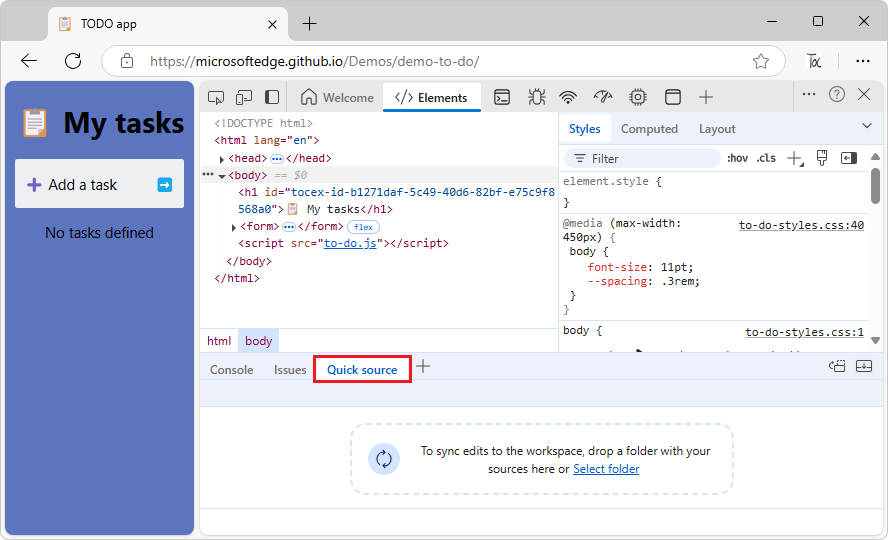
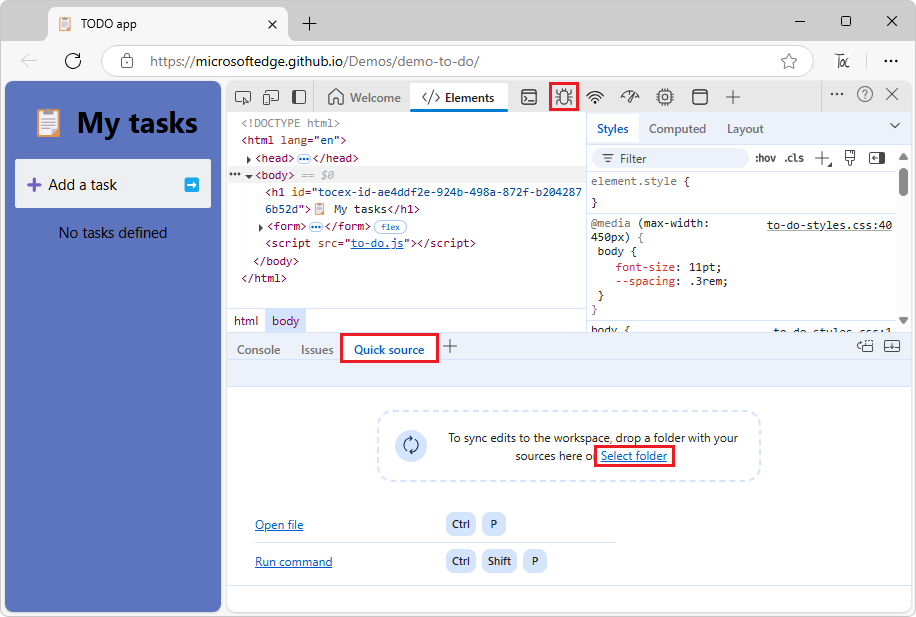
Filesystem tab > Workspace tab

diff --git a/microsoft-edge/devtools-guide-chromium/workspaces/index.md b/microsoft-edge/devtools-guide-chromium/workspaces/index.md
@@ -1,5 +1,5 @@
 ---
-title: Edit files with Workspaces (Filesystem tab)
+title: Edit files with Workspaces
 description: How to save webpage file changes made in DevTools to disk.
 author: MSEdgeTeam
 ms.author: msedgedevrel
@@ -21,9 +21,9 @@ ms.date: 09/13/2023
    WITHOUT WARRANTIES OR CONDITIONS OF ANY KIND, either express or implied.
    See the License for the specific language governing permissions and
    limitations under the License.  -->
-# Edit files with Workspaces (Filesystem tab)
+# Edit files with Workspaces
 
-Use the **Filesystem** tab in the **Sources** tool to define a workspace, to save DevTools changes in your source code files rather than only in a transient copy of the files that are returned by the web server.
+Use the **Workspace** tab in the **Sources** tool to define a workspace, to save DevTools changes in your source code files rather than only in a transient copy of the files that are returned by the web server.
 
 This tutorial provides hands-on practice in setting up and using a workspace in DevTools. After you add files to a workspace, changes that you make in your source code by using DevTools are saved on your local computer. These changes are preserved across page refreshes.
 
@@ -59,7 +59,7 @@ The tutorial steps below walk you through this environment setup.
 
 If you're using a modern framework, it probably transforms your source code from a format that's easy to maintain into a format that's optimized to run as quickly as possible.  A workspace is usually able to map the optimized code back to the original source code, by using [source maps](https://blog.teamtreehouse.com/introduction-source-maps) for JavaScript and CSS.  However, there's a lot of variation in how each framework uses source maps.
 
-DevTools doesn't support every framework variation; for example, the Workspaces feature (**Filesystem** tab) doesn't work with the Create React App framework.
+DevTools doesn't support every framework variation; for example, the Workspaces feature (**Workspace** tab) doesn't work with the Create React App framework.
 
 If you run into issues while using workspaces with your framework of choice, or you identify framework-specific steps that are needed, [start a thread in the Chrome DevTools mailing list](https://groups.google.com/forum/#!forum/google-chrome-developer-tools) or [ask a question on Stack Overflow](https://stackoverflow.com/questions/ask?tags=google-chrome-devtools) to exchange information with the rest of the DevTools community.
                                                                      
@@ -134,7 +134,7 @@ Node.js option:
 
 1. Click the **Sources** (![Sources tool icon](./index-images/sources-tool-icon.png)) tab.
 
-1. In the **Navigator** pane (on the left), click the **Filesystem** tab (which is grouped with the **Page** tab):
+1. In the **Navigator** pane (on the left), click the **Workspace** tab (which is grouped with the **Page** tab):
 
    ![The Filesystem tab](./index-images/workspaces-workspaces-demo-sources-filesystem.png)
 
@@ -146,7 +146,7 @@ Node.js option:
 
 1. Click the **Allow** button, to give DevTools permission to read and write to the directory.
 
-   In the **Filesystem** tab are page icons that have a green dot, for `index.html`, `script.js`, and `styles.css`. <!--(The two-way arrow colors are mapped to `.html`, `.js`, and `.css` file types.)-->  The green dot indicates that DevTools has established a mapping between a network resource of the page that's received from the web server, and the local source file in your `app` directory:
+   In the **Workspace** tab are page icons that have a green dot, for `index.html`, `script.js`, and `styles.css`. <!--(The two-way arrow colors are mapped to `.html`, `.js`, and `.css` file types.)-->  The green dot indicates that DevTools has established a mapping between a network resource of the page that's received from the web server, and the local source file in your `app` directory:
 
    ![The Filesystem tab has a green dot indicating a mapping between a resource received from the server and a local source file](./index-images/workspaces-workspaces-demo-sources-filesystem-folder.png)
 
@@ -156,7 +156,7 @@ Node.js option:
 
 To make a change in the CSS file and save it to disk:
 
-1. In the **Sources** tool, in the **Filesystem** tab (grouped with the **Page** tab), select `styles.css` to open it in the editor pane.  The `color` property of the `h1` element is set to `fuchsia`:
+1. In the **Sources** tool, in the **Workspace** tab (grouped with the **Page** tab), select `styles.css` to open it in the editor pane.  The `color` property of the `h1` element is set to `fuchsia`:
 
    ![View styles.css in a text editor](./index-images/workspaces-workspaces-demo-sources-filesystem-css.png)
 
@@ -223,7 +223,7 @@ In short, the **DOM Tree** `!==` HTML.
 <!-- ------------------------------ -->
 #### Changing HTML from the Sources tool saves changes
 
-If you want to save a change to the webpage HTML, edit the HTML in the **Sources** tool with a workspace defined (in the **Filesystem** tab), rather than changing the HTML in the DOM tree in the **Elements** tool.
+If you want to save a change to the webpage HTML, edit the HTML in the **Sources** tool with a workspace defined (in the **Workspace** tab), rather than changing the HTML in the DOM tree in the **Elements** tool.
 
 1. Continuing from above, click the **Sources** (![Sources tool icon.](./index-images/sources-tool-icon.png)) tab.
 
@@ -239,14 +239,14 @@ If you want to save a change to the webpage HTML, edit the HTML in the **Sources
 
 1. Open the copy of `index.html` that's in your `app` directory in a text editor, such as Visual Studio Code.
 
-   The `<h1>` element contains the new text, because you made the change using the **Sources** tool's editor to edit `index.html` and then saved the change, and that file was mapped in a workspace (the **Filesystem** tab), indicated by a green dot on the file's icon.
+   The `<h1>` element contains the new text, because you made the change using the **Sources** tool's editor to edit `index.html` and then saved the change, and that file was mapped in a workspace (the **Workspace** tab), indicated by a green dot on the file's icon.
 
 
 <!-- ====================================================================== -->
 ## Edit JavaScript and save changes to the source file
 
 The main place to use the code editor of DevTools is the **Sources** tool.  But sometimes you need to access other tools, such as the **Elements** tool or the **Console**, while editing files.  The **Quick source** tool gives you just the editor from the **Sources** tool, while any tool is open.
-<!-- todo: avoid Quick source tool and just use Sources tool for this section -->
+<!-- todo: maybe avoid Quick source tool and just use Sources tool for this section -->
 
 To open the DevTools code editor alongside other tools:
 
@@ -279,6 +279,10 @@ To open the DevTools code editor alongside other tools:
 1. Refresh the page.  If needed, click and hold the **Refresh** button and then select **Hard Refresh**.  The **Edit files with Workspaces** hyperlink on the page is now italicized:
 
    ![The link on the page is now italicized](./index-images/workspaces-workspaces-demo-elements-styles-quick-source-script.png)
+
+
+See also:
+* [Display or edit source files using the Quick source tool](../quick-source/quick-source-tool.md)
 
 
 <!-- ====================================================================== -->

diff --git a/microsoft-edge/devtools-guide-chromium/quick-source/quick-source-tool.md b/microsoft-edge/devtools-guide-chromium/quick-source/quick-source-tool.md
@@ -35,25 +35,34 @@ To open a file in the **Quick source** tool:
 
    The **Quick source** tool opens in **Quick View**:
 
-   ![The Quick source tool](./quick-source-tool-images/quick-source-select-folder.png)
+   ![The Quick source tool](./quick-source-tool-images/quick-source-open-file.png)
 
-   No files are displayed, because no files are selected in the **Sources** tool.
+1. Drag the separator to make the **Quick View** pane tall enough to display the **Open file** link.
 
-1. In the **Activity Bar**, select the **Sources** (![The Sources tool icon](./quick-source-tool-images/sources-icon.png)) tool.
+   Next, you can either:
+   * Open a file in the **Sources** (![The Sources tool icon](./quick-source-tool-images/sources-icon.png)) tool, per the steps below.
+   * Open a file via the **Command Menu** by clicking the **Open file** link in the **Quick source** tool.
+
+1. In the **Activity Bar** at the top of DevTools, select the **Sources** (![The Sources tool icon](./quick-source-tool-images/sources-icon.png)) tool.
 
    The **Quick View** pane is minimized at the bottom of DevTools.
 
-1. In the **Page** tab (or the **Workspace** tab), select one or more files, such as `to-do.js`.
+1. In the **Sources** tool, in the **Page** tab, select one or more files, such as `to-do.js`.
 
    The tabs for the selected files are opened in the **Sources** tool:
 
    ![The Sources tool > Page tab with a file selected](./quick-source-tool-images/sources-tool-page-tab-file-selected.png)
 
-1. In the **Activity Bar**, select a tool other than **Sources**, such as **Elements**.
+1. In the **Activity Bar** at the top of DevTools, select a tool other than **Sources**, such as **Elements**.
 
    The **Quick source** tool expands in **Quick View** at the bottom of DevTools, and has a tab for each open file:
 
-   ![A file displayed in the Quick source tool.](./quick-source-tool-images/file-displayed-in-quick-source.png)
+   ![A file displayed in the Quick source tool.](./quick-source-tool-images/file-displayed-in-quick-source.png)<!-- 1st use -->
+
+
+   Or, to open a file, you can click the **Open file** link in the empty **Quick source** tool:
+
+   ![The Open file Command Menu](./quick-source-tool-images/open-file-command-menu.png)
 
 
 <!-- ====================================================================== -->
@@ -75,8 +84,6 @@ To open a file in the **Quick source** tool and sync edits to the workspace:
 
    ![The Quick source tool](./quick-source-tool-images/quick-source-select-folder.png)
 
-   No files are displayed, because no files are selected in the **Sources** (bug icon) tool.
-
 1. In the **Quick source** tool, click the **Select folder** link.  (Or, drag a folder onto the **Quick source** panel.)
 
    The **Select Folder** dialog opens.
@@ -89,23 +96,24 @@ To open a file in the **Quick source** tool and sync edits to the workspace:
 
    The **Sources** tool is opened, with no file selected, and continues to display a **Select folder** link.
 
-1. In the **Sources** tool, select the **Workspace** tab (or the **Page** tab).
-
-1. Expand the tree, and then click one or more files, such as `to-do.js`.
+1. In the **Sources** tool, in the **Workspace** tab, expand the tree, and then click one or more files, such as `to-do.js`.
 
    The file opens in the **Sources** tool:
 
    ![The Sources tool with a file selected](./quick-source-tool-images/sources-tool-with-file-selected.png)
 
-1. In the **Activity Bar** at top of DevTools, select a tool other than the **Sources** tool, such as the **Elements** tool.
+1. In the **Activity Bar** at the top of DevTools, select a tool other than the **Sources** tool, such as the **Elements** tool.
 
    The **Quick source** tool expands in **Quick View** at the bottom of DevTools, and has a tab for each open file:
 
-   ![A file displayed in the Quick source tool](./quick-source-tool-images/file-displayed-in-quick-source.png)
+   ![A file displayed in the Quick source tool](./quick-source-tool-images/file-displayed-in-quick-source.png)<!-- 2nd use -->
+
+See also:
+* [Edit files with Workspaces](../workspaces/index.md)
+   * [Step 4: Save a JavaScript change to disk](../workspaces/index.md#edit-javascript-and-save-changes-to-the-source-file) in _Edit files with Workspaces_
 
 
 <!-- ====================================================================== -->
 ## See also:
 
 * [Displaying source files when using a different tool](../sources/index.md#displaying-source-files-when-using-a-different-tool) in _Sources tool overview_
-* [Step 4: Save a JavaScript change to disk](../workspaces/index.md#edit-javascript-and-save-changes-to-the-source-file) in _Edit files with Workspaces (Filesystem tab)_

diff --git a/microsoft-edge/devtools-guide-chromium/sample-code/sample-code.md b/microsoft-edge/devtools-guide-chromium/sample-code/sample-code.md
@@ -60,7 +60,7 @@ last sync'd April 16, 2024
 | Inspect Network Activity | Used for [Inspect network activity](../network/index.md). | [/network-tutorial/](https://github.com/MicrosoftEdge/Demos/tree/main/network-tutorial) | [Inspect Network Activity Demo](https://microsoftedge.github.io/Demos/network-tutorial/) |
 | Photo gallery | Used for [The truth about CSS selector performance](https://blogs.windows.com/msedgedev/2023/01/17/the-truth-about-css-selector-performance/). | [/photo-gallery/](https://github.com/MicrosoftEdge/Demos/tree/main/photo-gallery) | [Photo Gallery](https://microsoftedge.github.io/Demos/photo-gallery/) |
 | Slow Calendar | Simple calendar demo app to test various DevTools features such as the **Performance** tool and source map support. | [/slow-calendar/](https://github.com/MicrosoftEdge/Demos/tree/main/slow-calendar) | [Slow Calendar](https://microsoftedge.github.io/Demos/slow-calendar/public) |
-| Workspaces | Use for [Edit files with Workspaces (Filesystem tab)](../workspaces/index.md), in the **Sources** tool. | [/workspaces/](https://github.com/MicrosoftEdge/Demos/tree/main/workspaces) | [DevTools Workspaces Demo](https://microsoftedge.github.io/Demos/workspaces/) |
+| Workspaces | Use for [Edit files with Workspaces](../workspaces/index.md), in the **Sources** tool. | [/workspaces/](https://github.com/MicrosoftEdge/Demos/tree/main/workspaces) | [DevTools Workspaces Demo](https://microsoftedge.github.io/Demos/workspaces/) |
 
 A few of these samples are shown below.
 
@@ -235,7 +235,7 @@ After downloading or cloning the Demos repo:
 
 1. In DevTools, on the main toolbar, select the **Sources** tab.  If that tab isn't visible, click the **More tabs** (![More tabs icon](./sample-code-images/more-tabs-icon-light-theme.png)) button.
 
-1. In the **Sources** tab, on the left, select the **Filesystem** tab, which is grouped with the **Page** tab.  If the **Filesystem** tab isn't displayed, click the **More tabs** (![More tabs button](./sample-code-images/more-tabs-icon-light-theme.png)) button.
+1. In the **Sources** tab, on the left, select the **Workspace** tab, which is grouped with the **Page** tab.  If the **Workspace** tab isn't displayed, click the **More tabs** (![More tabs button](./sample-code-images/more-tabs-icon-light-theme.png)) button.
 
 1. Click **+ Add folder to workspace**.  A folder selection dialog opens.
 
@@ -251,7 +251,7 @@ To edit the files, see the editing steps in the next section.
 
 
 See also:
-* [Edit files with Workspaces (Filesystem tab)](../workspaces/index.md) - to open a local folder in the **Sources** tool of DevTools in the browser.
+* [Edit files with Workspaces](../workspaces/index.md) - to open a local folder in the **Sources** tool of DevTools in the browser.
 * [Using the Filesystem tab to define a local Workspace](../sources/index.md#using-the-filesystem-tab-to-define-a-local-workspace) in _Sources tool overview_.
 
 
@@ -355,7 +355,7 @@ These URLs aren't case-sensitive.
 ## See also
 
 Opening and editing files:
-* [Edit files with Workspaces (Filesystem tab)](../workspaces/index.md) - to open a local folder in the **Sources** tool of DevTools in the browser.
+* [Edit files with Workspaces](../workspaces/index.md) - to open a local folder in the **Sources** tool of DevTools in the browser.
 * [Using the Filesystem tab to define a local Workspace](../sources/index.md#using-the-filesystem-tab-to-define-a-local-workspace) in _Sources tool overview_.
 * [Approaches compared](../../visual-studio-code/microsoft-edge-devtools-extension.md#approaches-compared) in _Microsoft Edge DevTools extension for Visual Studio Code_.  Summarizes and compares several options for editing webpage files.
 * [Microsoft Edge IDE integration](../../visual-studio-code/ide-integration.md) - Webpage app development using Visual Studio Code or Visual Studio, including Microsoft Edge DevTools.

diff --git a/microsoft-edge/devtools-guide-chromium/sources/index.md b/microsoft-edge/devtools-guide-chromium/sources/index.md
@@ -139,7 +139,7 @@ To change how resources are grouped:
 <!-- ------------------------------ -->
 #### Using the Filesystem tab to define a local Workspace
 
-Use the **Filesystem** tab of the **Navigator** pane to add files to a Workspace, so that changes you make in DevTools get saved to your local file system.
+Use the **Workspace** tab of the **Navigator** pane to add files to a Workspace, so that changes you make in DevTools get saved to your local file system.
 
 <!-- Green dots do not appear anymore. -->
 <!-- A file that's in a Workspace is indicated by a green dot next to the file name, throughout DevTools. -->
@@ -153,7 +153,7 @@ In contrast, when you use a Workspace, changes that you make to your front-end c
 Workspaces work well when the JavaScript code that's returned by the server is the same as your local JavaScript source code.  Workspaces don't work as well when your workflow involves transformations on your source code, such as minification or [TypeScript](https://www.typescriptlang.org) compilation.
 
 See also:
-* [Edit files with Workspaces (Filesystem tab)](../workspaces/index.md)
+* [Edit files with Workspaces](../workspaces/index.md)
 * [Open a demo folder in the Sources tool and edit a file](../../devtools-guide-chromium/sample-code/sample-code.md#open-a-demo-folder-in-the-sources-tool-and-edit-a-file) in _Sample code for DevTools_.
 
 
@@ -289,7 +289,7 @@ If you change a file, an asterisk appears next to the file name.
 *  To save changes, press **Ctrl+S** on Windows/Linux or **Command+S** on macOS.
 *  To undo a change, press **Ctrl+Z** on Windows/Linux or **Command+Z** on macOS.
 
-By default, your edits are discarded when you refresh the webpage.  For more information about how to save the changes in your local file system, see [Edit files with Workspaces (Filesystem tab)](../workspaces/index.md).
+By default, your edits are discarded when you refresh the webpage.  For more information about how to save the changes in your local file system, see [Edit files with Workspaces](../workspaces/index.md).
 
 
 ###### Find and Replace
@@ -364,7 +364,7 @@ There are two ways to edit CSS in DevTools:
 *  In the **Elements** tool, you work with one CSS property at a time, through user interface controls.  This approach is recommended in most cases.  For more information, see [Get started viewing and changing CSS](../css/index.md).
 *  In the **Sources** tool, you use a text editor to edit CSS files.
 
-The Sources tool supports directly editing a CSS file.  For example, if you edit the CSS file from the tutorial [Edit files with Workspaces (Filesystem tab)](../workspaces/index.md) to match the style rule below, the `H1` element in the upper left of the rendered webpage changes to green:
+The Sources tool supports directly editing a CSS file.  For example, if you edit the CSS file from the tutorial [Edit files with Workspaces](../workspaces/index.md) to match the style rule below, the `H1` element in the upper left of the rendered webpage changes to green:
 
 ```css
 h1 {

diff --git a/microsoft-edge/visual-studio-code/microsoft-edge-devtools-extension.md b/microsoft-edge/visual-studio-code/microsoft-edge-devtools-extension.md
@@ -43,7 +43,7 @@ The DevTools extension for Visual Studio Code is one of several different ways t
 | Approach | Pros and Cons | Article |
 |---|---|---|
 | Browser > DevTools > **Elements** tool | You have to manually copy changes from DevTools into your source files. | [Inspect, edit, and debug HTML and CSS with the Elements tool](../devtools-guide-chromium/elements-tool/elements-tool.md)| 
-| Browser > DevTools > **Sources** tool > **Filesystem** tab to define a **Workspace** | Always saves the changes, which could discourage experimenting | [Using the Filesystem tab to define a local Workspace](../devtools-guide-chromium/sources/index.md) in _Sources tool overview_ |
+| Browser > DevTools > **Sources** tool > **Workspace** tab to define a **Workspace** | Always saves the changes, which could discourage experimenting | [Using the Filesystem tab to define a local Workspace](../devtools-guide-chromium/sources/index.md) in _Sources tool overview_ |
 | Browser > DevTools > **Settings** > **Experiments** > **Open source files in Visual Studio Code** | Always saves the changes, which could discourage experimenting | Experiments > [Opening source files in Visual Studio Code](../devtools-guide-chromium/sources/opening-sources-in-vscode.md). |
 | Microsoft Edge DevTools extension for Visual Studio Code | Automatically opens and edits the CSS source file but doesn't automatically save the file, so you get to choose whether to save the edits. | The present article. |
 

diff --git a/microsoft-edge/devtools-guide-chromium/sources/opening-sources-in-vscode.md b/microsoft-edge/devtools-guide-chromium/sources/opening-sources-in-vscode.md
@@ -45,7 +45,7 @@ After you select a root folder, you need to grant DevTools full access to the fo
 
 ![DevTools asking to get access to the folder](./opening-sources-in-vscode-images/allow-access.png)
 
-After you grant permission, the folder you select is added as a Workspace in DevTools, in the **Filesystem** tab of the **Sources** tool.  This means that any file you edit in DevTools now opens in Microsoft Visual Studio Code instead of in the Sources tool. As an indicator, we show a `linked` icon next to the file name.  In this example, we'll select the `base.css` link in the **Styles** tool.
+After you grant permission, the folder you select is added as a Workspace in DevTools, in the **Workspace** tab of the **Sources** tool.  This means that any file you edit in DevTools now opens in Microsoft Visual Studio Code instead of in the Sources tool. As an indicator, we show a `linked` icon next to the file name.  In this example, we'll select the `base.css` link in the **Styles** tool.
 
 ![Selecting a file link in the Styles tool opens the file in Visual Studio Code](./opening-sources-in-vscode-images/selecting-link.png)
 
